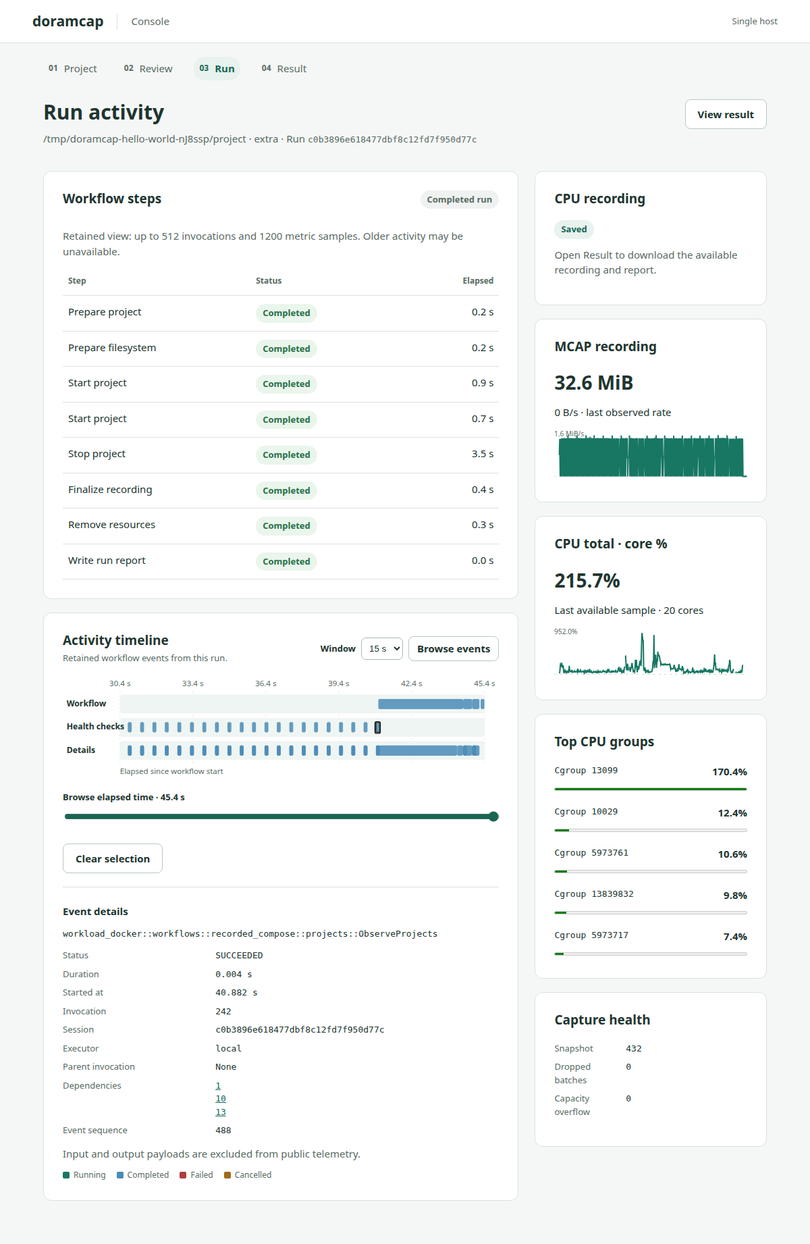
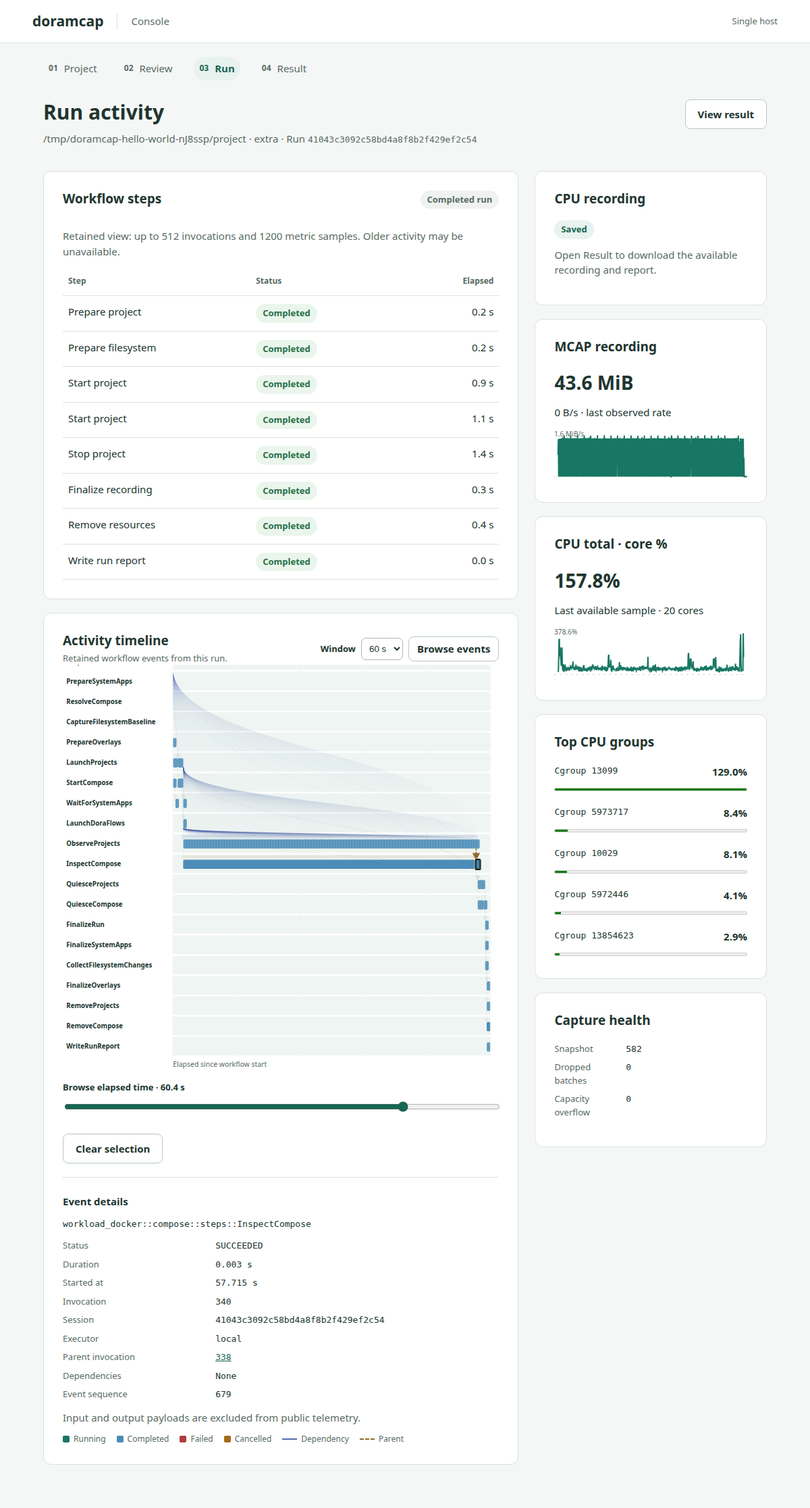
Give workflow steps dedicated timeline rows and explicit flow arrows

diff --git a/console/frontend/src/ActivityTimeline.tsx b/console/frontend/src/ActivityTimeline.tsx
@@ -1,16 +1,15 @@
-import { useState } from 'react';
+import { useId, useMemo, useState } from 'react';
 import type { Step } from './api';
-import { elapsedDuration, shortStep, stepTimes, timelineLane } from './workflow';
+import { elapsedDuration, shortStep, stepTimes } from './workflow';
+import { flowPath, invocationKey as identity, timelineModel } from './timeline';
 
-const lanes = ['Workflow', 'Health checks', 'Details'];
-const left = 118, width = 752;
+const left = 250, width = 720, svgWidth = 990, top = 34, rowHeight = 46;
 const colors: Record<string, string> = { STARTED: '#177763', SUCCEEDED: '#4a8bb7', FAILED: '#b13c3c', PANICKED: '#b13c3c', CANCELLED: '#a26a1a' };
 
 export function EventDetails({ step, now, inspectRelated }: { step: Step; now: number; inspectRelated?: (invocation: string) => void }) {
   const times = stepTimes(step);
   return <section className="event-details" aria-labelledby="event-detail-title"><h3 id="event-detail-title">Event details</h3><p className="mono break">{step.step}</p><dl className="detail-grid"><dt>Status</dt><dd>{step.state}</dd><dt>Duration</dt><dd>{elapsedDuration(step, now).toFixed(3)} s</dd><dt>Started at</dt><dd>{times.start.toFixed(3)} s</dd><dt>Invocation</dt><dd>{step.invocation}</dd><dt>Session</dt><dd>{step.session}</dd><dt>Executor</dt><dd>{step.executor}</dd><dt>Parent invocation</dt><dd>{step.parent ? (inspectRelated ? <button className="event-relation" onClick={() => inspectRelated(step.parent!)}>{step.parent}</button> : step.parent) : 'None'}</dd><dt>Dependencies</dt><dd>{step.dependencies?.length ? step.dependencies.map(id => inspectRelated ? <button key={id} className="event-relation" onClick={() => inspectRelated(id)}>{id}</button> : <span key={id}>{id} </span>) : 'None'}</dd><dt>Event sequence</dt><dd>{step.sequence ?? 'Unavailable'}</dd></dl>{step.error && <p className="notice failure-notice" role="status">{step.error}. Inspect private host evidence for the failure diagnostic.</p>}<p className="muted">Input and output payloads are excluded from public telemetry.</p></section>;
 }
-const identity = (step: Step) => `${step.session}:${step.executor}:${step.invocation}`;
 
 export function ActivityTimeline({ steps, now, live = true }: { steps: Step[]; now: number; live?: boolean }) {
   const [windowSeconds, setWindowSeconds] = useState(15);
@@ -18,6 +17,12 @@ export function ActivityTimeline({ steps, now, live = true }: { steps: Step[]; n
   const [selected, setSelected] = useState<Step | null>(null);
   const shown = paused?.steps ?? steps;
   const shownNow = paused?.now ?? now;
+  const { rows, rowByName, flows } = useMemo(() => timelineModel(shown), [shown]);
+  const plotBottom = top + Math.max(1, rows.length) * rowHeight;
+  const svgHeight = plotBottom + 30;
+  const uniqueId = useId().replace(/:/g, '');
+  const clipId = `activity-plot-${uniqueId}`, arrowId = `activity-arrow-${uniqueId}`;
+  const rowY = (step: Step) => top + rowByName.get(step.step)! * rowHeight + 12;
   const right = Math.max(windowSeconds, shownNow);
   const start = right - windowSeconds;
   const focus = selected && (shown.find(step => identity(step) === identity(selected)) ?? selected);
@@ -33,31 +38,35 @@ export function ActivityTimeline({ steps, now, live = true }: { steps: Step[]; n
     return [{ step, start: Math.max(start, times.start), end: Math.min(right, end) }];
   });
   return <section className="panel activity-panel" aria-labelledby="activity-title">
-    <div className="panel-heading activity-heading"><div><h2 id="activity-title">Activity timeline</h2><p className="muted">{live ? 'Live workflow events, including periodic health checks.' : 'Retained workflow events from this run.'}</p></div><div className="timeline-controls"><label htmlFor="timeline-window">Window</label><select id="timeline-window" value={windowSeconds} onChange={event => setWindowSeconds(Number(event.target.value))}><option value={5}>5 s</option><option value={15}>15 s</option><option value={30}>30 s</option><option value={60}>60 s</option></select><button className="button secondary timeline-toggle" onClick={() => setPaused(paused ? null : { now, steps: [...steps] })}>{paused ? (live ? 'Follow live' : 'Latest events') : (live ? 'Pause' : 'Browse events')}</button></div></div>
-    <div className="activity-scroll"><svg className="activity-timeline" viewBox="0 0 900 210" onClick={event => {
+    <div className="panel-heading activity-heading"><div><h2 id="activity-title">Activity timeline</h2><p className="muted">{live ? 'Live workflow events by step.' : 'Retained workflow events from this run.'}</p></div><div className="timeline-controls"><label htmlFor="timeline-window">Window</label><select id="timeline-window" value={windowSeconds} onChange={event => setWindowSeconds(Number(event.target.value))}><option value={5}>5 s</option><option value={15}>15 s</option><option value={30}>30 s</option><option value={60}>60 s</option></select><button className="button secondary timeline-toggle" onClick={() => setPaused(paused ? null : { now, steps: [...steps] })}>{paused ? (live ? 'Follow live' : 'Latest events') : (live ? 'Pause' : 'Browse events')}</button></div></div>
+    <div className="activity-scroll"><svg className="activity-timeline" viewBox={`0 0 ${svgWidth} ${svgHeight}`} onClick={event => {
       const box = event.currentTarget.getBoundingClientRect();
-      const plotX = (event.clientX - box.left) * 900 / box.width;
-      const plotY = (event.clientY - box.top) * 210 / box.height;
-      if (plotX < left || plotX > left + width || plotY < 34 || plotY > 178) return;
-      const lane = Math.floor((plotY - 34) / 48);
+      const plotX = (event.clientX - box.left) * svgWidth / box.width;
+      const plotY = (event.clientY - box.top) * svgHeight / box.height;
+      if (plotX < left || plotX > left + width || plotY < top || plotY >= plotBottom) return;
+      const lane = Math.floor((plotY - top) / rowHeight);
       const time = start + (plotX - left) * windowSeconds / width;
       const distance = (item: typeof visible[number]) => Math.max(item.start - time, time - item.end, 0);
-      const nearby = visible.filter(item => timelineLane(item.step) === lane).sort((a,b) => distance(a) - distance(b))[0];
+      const nearby = visible.filter(item => rowByName.get(item.step.step) === lane).sort((a,b) => distance(a) - distance(b))[0];
       if (nearby) select(nearby.step);
     }} role="group" aria-label={`Workflow activity timeline, ${live ? (paused ? 'paused' : 'following live') : 'retained run'}, showing ${windowSeconds} seconds`}>
-      <defs><clipPath id="activity-plot"><rect x={left} y="28" width={width} height="150" /></clipPath></defs>
-      {Array.from({ length: 6 }, (_, i) => <g key={i}><line x1={left + i * width / 5} x2={left + i * width / 5} y1="28" y2="178" className="timeline-grid"/><text x={left + i * width / 5} y="17" textAnchor="middle" className="timeline-axis">{(start + i * windowSeconds / 5).toFixed(1)} s</text></g>)}
-      {lanes.map((lane, i) => <g key={lane}><rect x={left} y={34 + i * 48} width={width} height="39" rx="5" className="timeline-lane"/><text x="8" y={58 + i * 48} className="timeline-lane-label">{lane}</text></g>)}
-      <g clipPath="url(#activity-plot)">{visible.map(({ step, start: from, end }) => {
-        const x1 = x(from), spanWidth = Math.max(8, x(end) - x1), markerX = Math.max(left, Math.min(left + width - spanWidth, x1)), y = 43 + timelineLane(step) * 48;
+      <defs><clipPath id={clipId}><rect x={left} y="28" width={width} height={plotBottom - 28} /></clipPath><marker id={arrowId} viewBox="0 0 8 8" refX="7" refY="4" markerWidth="7" markerHeight="7" orient="auto"><path d="M0,0 L8,4 L0,8 Z" fill="context-stroke"/></marker></defs>
+      {Array.from({ length: 6 }, (_, i) => <g key={i}><line x1={left + i * width / 5} x2={left + i * width / 5} y1="28" y2={plotBottom} className="timeline-grid"/><text x={left + i * width / 5} y="17" textAnchor="middle" className="timeline-axis">{(start + i * windowSeconds / 5).toFixed(1)} s</text></g>)}
+      {rows.map((name, i) => <g key={name} className="timeline-step-row" data-step={name}><rect x={left} y={top + i * rowHeight} width={width} height={rowHeight - 4} rx="5" className="timeline-lane"/><text x="8" y={top + 27 + i * rowHeight} className="timeline-lane-label"><title>{name}</title>{name.split('::').at(-1)}</text></g>)}
+      <g clipPath={`url(#${clipId})`} className="timeline-flows">{flows.filter(flow => Math.max(flow.from, flow.to) >= start && Math.min(flow.from, flow.to) <= right).map(flow => {
+        const related = !selected || identity(selected) === identity(flow.source) || identity(selected) === identity(flow.target);
+        return <path key={`${identity(flow.source)}:${identity(flow.target)}:${flow.kind}`} className={`timeline-flow ${flow.kind}`} d={flowPath(x(flow.from), rowY(flow.source), x(flow.to), rowY(flow.target))} fill="none" stroke={flow.kind === 'parent' ? '#8c6924' : '#526bb0'} strokeWidth={selected && related ? 2.5 : 1.5} strokeDasharray={flow.kind === 'parent' ? '4 3' : undefined} opacity={selected ? (related ? 0.95 : 0.04) : 0.2} markerEnd={`url(#${arrowId})`}><title>{`${flow.kind === 'parent' ? 'Parent' : 'Dependency'}: ${shortStep(flow.source)} (${flow.source.invocation}) → ${shortStep(flow.target)} (${flow.target.invocation})`}</title></path>;
+      })}</g>
+      <g clipPath={`url(#${clipId})`}>{visible.map(({ step, start: from, end }) => {
+        const x1 = x(from), spanWidth = Math.max(8, x(end) - x1), markerX = Math.max(left, Math.min(left + width - spanWidth, x1)), y = rowY(step);
         return <rect className="timeline-event" role="button" tabIndex={0} aria-label={`${shortStep(step)}, ${step.state.toLowerCase()}, invocation ${step.invocation}`} aria-pressed={selected ? identity(selected) === identity(step) : false} onClick={event => { event.stopPropagation(); select(step); }} onKeyDown={event => { if (event.key === 'Enter' || event.key === ' ') { event.preventDefault(); select(step); } }} stroke={selected && identity(selected) === identity(step) ? '#20352f' : 'none'} strokeWidth="3" key={identity(step)} x={markerX} y={y} width={spanWidth} height="21" rx="3" fill={colors[step.state] ?? '#72857d'} opacity="0.85"><title>{`${shortStep(step)} · ${step.state.toLowerCase()} · invocation ${step.invocation}`}</title></rect>;
       })}</g>
-      {!shown.length && <text x="494" y="111" textAnchor="middle" className="timeline-empty">{live ? 'Waiting for workflow events…' : 'No retained workflow events available.'}</text>}
-      <text x={left} y="198" className="timeline-axis">Elapsed since workflow start</text>
+      {!shown.length && <text x={left + width / 2} y={top + 27} textAnchor="middle" className="timeline-empty">{live ? 'Waiting for workflow events…' : 'No retained workflow events available.'}</text>}
+      <text x={left} y={svgHeight - 8} className="timeline-axis">Elapsed since workflow start</text>
     </svg></div>
     <label className="timeline-position" htmlFor="timeline-position">Browse elapsed time · {right.toFixed(1)} s<input id="timeline-position" type="range" min={windowSeconds} max={Math.max(windowSeconds, now)} step="0.1" value={Math.min(right, Math.max(windowSeconds, now))} onChange={event => setPaused({ now: Number(event.target.value), steps: [...steps] })}/></label>
     {missingRelated && <p className="notice">Related invocation is outside the retained activity.</p>}
     {focus ? <><div className="actions"><button className="button secondary" onClick={() => { setSelected(null); setMissingRelated(false); }}>Clear selection</button></div><EventDetails step={focus} now={shownNow} inspectRelated={inspectRelated}/></> : <p className="muted">Select an event to inspect its timing and relationships.</p>}
-    <p className="timeline-scroll-hint">Scroll the timeline to see the latest activity.</p><div className="timeline-legend"><span><i className="timeline-key running"/>Running</span><span><i className="timeline-key completed"/>Completed</span><span><i className="timeline-key failed"/>Failed</span><span><i className="timeline-key cancelled"/>Cancelled</span></div>
+    <p className="timeline-scroll-hint">Scroll the timeline to see the latest activity.</p><div className="timeline-legend"><span><i className="timeline-key running"/>Running</span><span><i className="timeline-key completed"/>Completed</span><span><i className="timeline-key failed"/>Failed</span><span><i className="timeline-key cancelled"/>Cancelled</span><span><i className="timeline-flow-key dependency"/>Dependency</span><span><i className="timeline-flow-key parent"/>Parent</span></div>
   </section>;
 }

diff --git a/console/frontend/src/ui/tokens.css b/console/frontend/src/ui/tokens.css
@@ -1,7 +1,9 @@
 :root{font-family:system-ui,-apple-system,BlinkMacSystemFont,"Segoe UI",sans-serif;color:#20352f;background:#f5f7f6;font-size:15px;line-height:1.5}*{box-sizing:border-box}body{margin:0}button,input{font:inherit}button,a,input{outline-offset:2px}button:focus-visible,a:focus-visible,input:focus-visible{outline:2px solid #166653}.topbar{height:64px;background:#fff;border-bottom:1px solid #d9e2dd;display:flex;align-items:center;gap:20px;padding:0 48px;color:#596b64}.topbar strong{font-size:21px;color:#20352f}.divider{height:24px;width:1px;background:#d9e2dd}.host{margin-left:auto;font-size:13px}.page{max-width:1200px;margin:auto;padding:20px 64px 64px}.phase-rail{display:flex;gap:24px;align-items:center;flex-wrap:wrap;margin-bottom:28px}.phase{display:flex;gap:9px;align-items:center;padding:6px 8px;border-radius:16px;color:#596b64}.phase small{font-size:12px;font-weight:600}.phase.current{background:#e8f2ee;color:#166653;font-weight:600}.heading{display:flex;justify-content:space-between;align-items:flex-start;gap:24px;margin-bottom:36px}.heading h1{margin:0;font-size:30px;line-height:1.25;font-weight:650}.heading p{margin:10px 0 0;color:#596b64}.columns{display:grid;grid-template-columns:minmax(0,2.05fr) minmax(0,1fr);gap:24px;align-items:start}.columns>div,.columns>aside{display:grid;gap:20px}.panel{background:#fff;border:1px solid #d9e2dd;border-radius:12px;padding:28px;min-width:0}.panel h2{font-size:19px;line-height:1.3;margin:0 0 20px}.panel h3{font-size:15px;margin:24px 0 8px}.panel p{margin:12px 0}.panel-heading{display:flex;justify-content:space-between;align-items:flex-start;gap:12px}.muted{color:#596b64}.mono{font-family:ui-monospace,SFMono-Regular,Consolas,monospace;font-size:13px}.break{overflow-wrap:anywhere}label,legend{font-size:13px;font-weight:600;display:block;margin:20px 0 8px}input:not([type=checkbox]){width:100%;height:44px;border:1px solid #a8bab1;border-radius:8px;padding:0 12px;color:#20352f;background:#fff}fieldset{border:0;padding:0;margin:20px 0}.checkbox{display:flex;align-items:center;gap:10px;font-weight:400;margin:10px 0}.checkbox input{width:18px;height:18px;accent-color:#166653}.actions{display:flex;align-items:center;gap:12px;flex-wrap:wrap;margin-top:24px}.button{min-height:44px;border:1px solid transparent;border-radius:8px;padding:10px 18px;display:inline-flex;align-items:center;justify-content:center;font-weight:600;text-decoration:none;cursor:pointer}.button.primary{background:#166653;color:white}.button.secondary,.button.stop{background:#fff;border-color:#b7c8bf;color:#20352f}.button.stop{color:#8b5a13}.button:disabled{cursor:not-allowed;opacity:.55}.status{display:inline-block;border-radius:16px;padding:4px 10px;font-size:13px;font-weight:600;white-space:nowrap}.status.active{color:#166653;background:#e8f2ee}.status.success{color:#267047;background:#eaf5ec}.status.attention{color:#8b5a13;background:#fff3dc}.status.failure{color:#a33636;background:#fbecec}.status.neutral{color:#596b64;background:#eff2f0}.notice{padding:12px 16px;background:#fff3dc;color:#714800;border-radius:8px;margin:0 0 20px;overflow-wrap:anywhere}.failure-notice{background:#fbecec;color:#8b2929}.attention-panel{border-color:#e7c99b;background:#fffaf1}.table-wrap{max-width:100%}table{border-collapse:collapse;width:100%;table-layout:fixed}th,td{border-bottom:1px solid #d9e2dd;text-align:left;padding:12px 8px;vertical-align:top;overflow-wrap:anywhere}th{font-size:12px;color:#596b64}td .status{white-space:normal}.duration{text-align:right;width:90px}.outcomes{display:grid;gap:0}.outcomes>div{display:flex;align-items:center;justify-content:space-between;gap:12px;padding:12px 0;border-bottom:1px solid #d9e2dd}.unavailable{color:#596b64;font-size:14px}.sr-only{position:absolute;width:1px;height:1px;padding:0;margin:-1px;overflow:hidden;clip:rect(0,0,0,0);white-space:nowrap;border:0}@media(max-width:900px){.page{padding:20px 24px 48px}.columns{grid-template-columns:1fr}.heading{flex-wrap:wrap}.topbar{padding:0 24px}.phase-rail{gap:8px}.host{display:none}}@media(max-width:480px){.page{padding:16px}.panel{padding:20px}.heading h1{font-size:26px}.phase{padding:4px}.phase-rail{justify-content:space-between}.phase small{display:none}.button{max-width:100%}th,td{padding:10px 4px}.duration{width:60px}}
-.activity-heading{align-items:center;flex-wrap:wrap}.activity-heading h2{margin-bottom:4px}.activity-heading p{margin:0;font-size:13px}.timeline-controls{display:flex;align-items:center;gap:8px;flex-wrap:wrap}.timeline-controls label{margin:0;font-size:13px}.timeline-controls select{border:1px solid #a8bab1;border-radius:7px;background:#fff;color:#20352f;padding:7px}.timeline-toggle{min-height:36px;padding:6px 12px}.activity-scroll{overflow-x:auto}.activity-timeline{display:block;width:100%;height:auto;margin-top:20px}.timeline-grid{stroke:#cadad2;stroke-dasharray:3 5}.timeline-lane{fill:#eff5f2}.timeline-axis{font-size:16px;fill:#596b64}.timeline-lane-label{font-size:17px;fill:#20352f;font-weight:600}.timeline-empty{font-size:13px;fill:#596b64}.timeline-scroll-hint{display:none}.timeline-legend{display:flex;flex-wrap:wrap;gap:16px;font-size:12px;color:#596b64}.timeline-legend span{display:inline-flex;align-items:center;gap:6px}.timeline-key{width:10px;height:10px;border-radius:2px}.timeline-key.running{background:#177763}.timeline-key.completed{background:#4a8bb7}.timeline-key.failed{background:#b13c3c}.timeline-key.cancelled{background:#a26a1a}@media(max-width:480px){.timeline-scroll-hint{display:block;color:#596b64;font-size:12px;margin:4px 0}.activity-timeline{min-width:560px}.activity-heading{align-items:flex-start}.timeline-controls{width:100%}}
+.activity-heading{align-items:center;flex-wrap:wrap}.activity-heading h2{margin-bottom:4px}.activity-heading p{margin:0;font-size:13px}.timeline-controls{display:flex;align-items:center;gap:8px;flex-wrap:wrap}.timeline-controls label{margin:0;font-size:13px}.timeline-controls select{border:1px solid #a8bab1;border-radius:7px;background:#fff;color:#20352f;padding:7px}.timeline-toggle{min-height:36px;padding:6px 12px}.activity-scroll{overflow:auto;max-height:600px}.activity-timeline{display:block;width:100%;height:auto;margin-top:20px}.timeline-grid{stroke:#cadad2;stroke-dasharray:3 5}.timeline-lane{fill:#eff5f2}.timeline-axis{font-size:16px;fill:#596b64}.timeline-lane-label{font-size:15px;fill:#20352f;font-weight:600}.timeline-empty{font-size:13px;fill:#596b64}.timeline-scroll-hint{display:none}.timeline-legend{display:flex;flex-wrap:wrap;gap:16px;font-size:12px;color:#596b64}.timeline-legend span{display:inline-flex;align-items:center;gap:6px}.timeline-key{width:10px;height:10px;border-radius:2px}.timeline-key.running{background:#177763}.timeline-key.completed{background:#4a8bb7}.timeline-key.failed{background:#b13c3c}.timeline-key.cancelled{background:#a26a1a}@media(max-width:480px){.timeline-scroll-hint{display:block;color:#596b64;font-size:12px;margin:4px 0}.activity-timeline{min-width:900px}.activity-heading{align-items:flex-start}.timeline-controls{width:100%}}
 .timeline-event{cursor:pointer}.timeline-event:focus-visible{outline:3px solid #20352f;outline-offset:3px}.detail-grid{display:grid;grid-template-columns:minmax(0,1fr) minmax(0,2fr);gap:8px 16px;font-size:13px}.detail-grid dt{color:#596b64}.detail-grid dd{margin:0;overflow-wrap:anywhere;font-family:ui-monospace,SFMono-Regular,Consolas,monospace}.event-details{border-top:1px solid #d9e2dd;margin-top:20px}.timeline-position{margin:16px 0}.timeline-position input[type=range]{display:block;width:100%;padding:0;height:32px;accent-color:#166653}.metric-value{font-size:28px;font-weight:650}.metric-chart{display:block;width:100%;height:auto}.metric-scale{font-size:10px;fill:#596b64}.phase-link{font:inherit;border:0;background:transparent;cursor:pointer}.phase-link:hover{background:#e8f2ee}.run-view-actions{display:flex;gap:12px;flex-wrap:wrap}
 
 .event-relation{border:0;padding:0;background:transparent;color:#166653;text-decoration:underline;cursor:pointer;font:inherit;display:block;overflow-wrap:anywhere;text-align:left}
 
 .cpu-ranking{list-style:none;margin:0;padding:0;display:grid;gap:16px}.cpu-ranking li>div{display:flex;gap:12px;justify-content:space-between;overflow-wrap:anywhere}.cpu-ranking meter{width:100%;height:10px;accent-color:#177763}
+
+.timeline-flow{pointer-events:stroke}.timeline-flow-key{width:22px;border-top:2px solid #526bb0}.timeline-flow-key.parent{border-top:2px dashed #8c6924}

diff --git a/console/frontend/src/timeline.test.tsx b/console/frontend/src/timeline.test.tsx
@@ -1,0 +1,54 @@
+import { strict as assert } from 'node:assert';
+import { test } from 'node:test';
+import React from 'react';
+import { renderToStaticMarkup } from 'react-dom/server';
+import type { Step } from './api';
+import { ActivityTimeline } from './ActivityTimeline';
+import { flowPath, timelineModel } from './timeline';
+
+const step = (invocation: string, name: string, extra: Partial<Step> = {}): Step => ({ session: 'run', executor: 'local', invocation, step: name, state: 'SUCCEEDED', elapsedNs: '2000000000', durationNs: '1000000000', ...extra });
+
+test('each full step name owns one row across repeated invocations and window changes', () => {
+  // Arrange
+  const steps = [step('1', 'compose::ObserveProjects'), step('2', 'compose::InspectCompose'), step('3', 'compose::InspectCompose'), step('4', 'other::InspectCompose')];
+  // Act
+  const model = timelineModel(steps);
+  const html = renderToStaticMarkup(<ActivityTimeline steps={steps} now={30} />);
+  // Assert
+  assert.deepEqual(model.rows, ['compose::ObserveProjects', 'compose::InspectCompose', 'other::InspectCompose']);
+  assert.equal(model.rowByName.get(steps[1].step), model.rowByName.get(steps[2].step));
+  assert.equal((html.match(/class="timeline-step-row"/g) ?? []).length, 3);
+  assert.equal((html.match(/class="timeline-event"/g) ?? []).length, 0);
+});
+
+test('flows use exact scoped IDs and reported parent/dependency timing only', () => {
+  // Arrange
+  const source = step('9007199254740993', 'compose::Prepare');
+  const target = step('9007199254740994', 'compose::InspectCompose', { parent: source.invocation, dependencies: [source.invocation, source.invocation], elapsedNs: '4000000000' });
+  const unrelated = step('9007199254740995', 'compose::Prepare', { session: 'other', parent: source.invocation });
+  const otherExecutor = step('5', 'compose::InspectCompose', { executor: 'other', dependencies: [source.invocation] });
+  // Act
+  const { flows } = timelineModel([source, target, unrelated, otherExecutor]);
+  // Assert
+  assert.deepEqual(flows.map(flow => [flow.kind, flow.source.invocation, flow.target.invocation, flow.from, flow.to]), [
+    ['parent', source.invocation, target.invocation, 1, 3],
+    ['dependency', source.invocation, target.invocation, 2, 3],
+  ]);
+  // Act / Assert: eviction never creates a substitute edge.
+  assert.deepEqual(timelineModel([target, unrelated, otherExecutor]).flows, []);
+});
+
+test('same-row arrows remain curved and explicit links crossing the window are rendered', () => {
+  // Arrange
+  const source = step('1', 'compose::InspectCompose');
+  const target = step('2', source.step, { dependencies: ['1'], elapsedNs: '17000000000' });
+  // Act
+  const path = flowPath(10, 46, 30, 46);
+  const html = renderToStaticMarkup(<ActivityTimeline steps={[source, target]} now={20} live={false} />);
+  // Assert
+  assert.equal(path, 'M10,46 C10,21 30,21 30,46');
+  assert.equal((html.match(/class="timeline-flow dependency"/g) ?? []).length, 1);
+  assert.match(html, /marker-end="url\(#activity-arrow-/);
+  assert.match(html, /Dependency: InspectCompose \(1\) → InspectCompose \(2\)/);
+  assert.equal((html.match(/class="timeline-event"/g) ?? []).length, 1);
+});

diff --git a/console/frontend/src/timeline.ts b/console/frontend/src/timeline.ts
@@ -1,0 +1,33 @@
+import type { Step } from './api';
+import { stepTimes } from './workflow';
+
+export const invocationKey = (step: Step) => JSON.stringify([step.session, step.executor, step.invocation]);
+export interface Flow { source: Step; target: Step; kind: 'parent' | 'dependency'; from: number; to: number }
+
+/** Group by full Rust type name; resolve only explicit, executor-local relationships. */
+export function timelineModel(steps: Step[]) {
+  const rows = [...new Set(steps.map(step => step.step))];
+  const rowByName = new Map(rows.map((name, index) => [name, index]));
+  const byInvocation = new Map(steps.map(step => [invocationKey(step), step]));
+  const flows: Flow[] = [];
+  for (const target of steps) {
+    const add = (id: string, kind: Flow['kind']) => {
+      const source = byInvocation.get(invocationKey({ ...target, invocation: id }));
+      if (!source || source === target) return;
+      const times = stepTimes(source);
+      flows.push({ source, target, kind, from: kind === 'parent' ? times.start : times.end, to: stepTimes(target).start });
+    };
+    if (target.parent) add(target.parent, 'parent');
+    for (const id of new Set(target.dependencies ?? [])) add(id, 'dependency');
+  }
+  return { rows, rowByName, flows };
+}
+
+/** Route arrowheads to the top of a bar, including relationships within one row. */
+export function flowPath(fromX: number, fromY: number, toX: number, toY: number): string {
+  if (fromY === toY) return `M${fromX},${fromY} C${fromX},${fromY - 25} ${toX},${toY - 25} ${toX},${toY}`;
+  const sourceY = fromY < toY ? fromY + 21 : fromY;
+  const targetY = fromY < toY ? toY : toY + 21;
+  const middle = (sourceY + targetY) / 2;
+  return `M${fromX},${sourceY} C${fromX},${middle} ${toX},${middle} ${toX},${targetY}`;
+}

diff --git a/console/frontend/src/workflow.test.ts b/console/frontend/src/workflow.test.ts
@@ -1,6 +1,6 @@
 import { strict as assert } from 'node:assert';
 import { test } from 'node:test';
-import { elapsedDuration, isLifecycleStep, stepTimes, timelineLane } from './workflow';
+import { elapsedDuration, isLifecycleStep, stepTimes } from './workflow';
 import type { Step } from './api';
 
 const step = (overrides: Partial<Step>): Step => ({ session: 's', executor: 'local', invocation: '9007199254740993', step: 'compose::PrepareRun', state: 'SUCCEEDED', elapsedNs: '9007199254740999', durationNs: '9007199254740993', ...overrides });
@@ -10,9 +10,6 @@ test('classifies top-level lifecycle steps separately from periodic and nested e
   assert.equal(isLifecycleStep(step({})), true);
   assert.equal(isLifecycleStep(step({ parent: '1' })), false);
   assert.equal(isLifecycleStep(step({ step: 'compose::ObserveProjects' })), false);
-  assert.equal(timelineLane(step({ step: 'compose::ObserveProjects' })), 1);
-  assert.equal(timelineLane(step({ step: 'compose::InspectCompose', parent: '1' })), 2);
-  assert.equal(timelineLane(step({ step: 'compose::ResolveCompose', parent: '1' })), 2);
 });
 
 test('timestamps retain exact 64-bit subtraction and running elapsed time advances', () => {

diff --git a/console/frontend/src/render.test.tsx b/console/frontend/src/render.test.tsx
@@ -23,7 +23,8 @@ test('activity timeline retains repeated health-check invocations', () => {
   // Act
   const html = renderToStaticMarkup(<ActivityTimeline steps={rows} now={2} />);
   // Assert
-  assert.match(html, /Health checks/);
+  assert.equal((html.match(/class="timeline-step-row"/g) ?? []).length, 1);
+  assert.match(html, /data-step="module::ObserveProjects"/);
   assert.match(html, /invocation 9007199254740993/);
   assert.match(html, /invocation 9007199254740994/);
 });

diff --git a/console/frontend/src/workflow.ts b/console/frontend/src/workflow.ts
@@ -32,6 +32,3 @@ export function elapsedDuration(step: Step, now: number): number {
   const { start, end } = stepTimes(step);
   return Math.max(0, (step.state === 'STARTED' ? Math.max(now, end) : end) - start);
 }
-export function timelineLane(step: Step): number {
-  return shortStep(step) === 'ObserveProjects' ? 1 : isLifecycleStep(step) ? 0 : 2;
-}

diff --git a/console/docs/102926-console-mvp.md b/console/docs/102926-console-mvp.md
@@ -589,3 +589,42 @@ harness was added.
   the packaged Docker app; record actual outcomes and unavailable cases.
 - [x] Run final-source local CI, frontend/server builds and ARM64 validation;
   record results and skips separately.
+
+## M9 — Step rows and explicit event flows
+
+**Work items**
+
+- [x] Give each full Rust step type a separate timeline row. Repeated invocations
+  share that row; labels expose the full type name on hover. Keep rows present
+  while browsing windows and preserve direct/keyboard event inspection.
+- [x] Draw reported dependencies from producer completion to consumer start and
+  parent links from parent start to child start. Resolve exact invocation IDs
+  within their session/executor; omit links whose endpoints were evicted.
+  Render arrowheads, curved same-row links, clipped cross-window links and
+  selection highlighting. Reuse existing telemetry; no new APIs or dependencies.
+
+**Validation**
+
+Frontend: 20 tests and the production build passed. Focused cases cover repeated
+names, full-name separation, precise scoped IDs, missing endpoints, duplicate
+references and same-row/cross-window arrows. Headless Chromium against the
+packaged completed Docker run displayed 20 rows and 218 InspectCompose markers
+in the 60-second window. Selecting invocation 340 opened its precise details
+and highlighted its one reported parent link from invocation 338. At 390 px,
+the document remained 390 px wide; the timeline scrolls within its panel.
+Updated `screenshots/completed-activity*.png` capture this real retained run.
+
+- [x] Verify grouping, relationships, event selection and narrow-screen layout.
+Keyboard Enter opened the selected InspectCompose event; following parent 338
+opened ObserveProjects and highlighted its reported relationships.
+
+Local CI passed on the final application source: default/all-feature Clippy and
+workspace tests, storage without default features, all-feature examples/binaries,
+formatting, library boundaries and snapshot synchronization. Builds used the CI
+profile and locked dependencies, unprivileged. Logs: `/tmp/console-rows-*.log`.
+ARM64 job 515 passed the same application source, including native accounting and
+allocation checks. Existing ignored capability/CUDA/high-memlock tests remain
+skipped. This rendering change reused the completed real Docker run above;
+no new execution acceptance or second-machine browser run was performed.
+
+- [x] Run local CI and ARM64 on the final source; record results separately.
